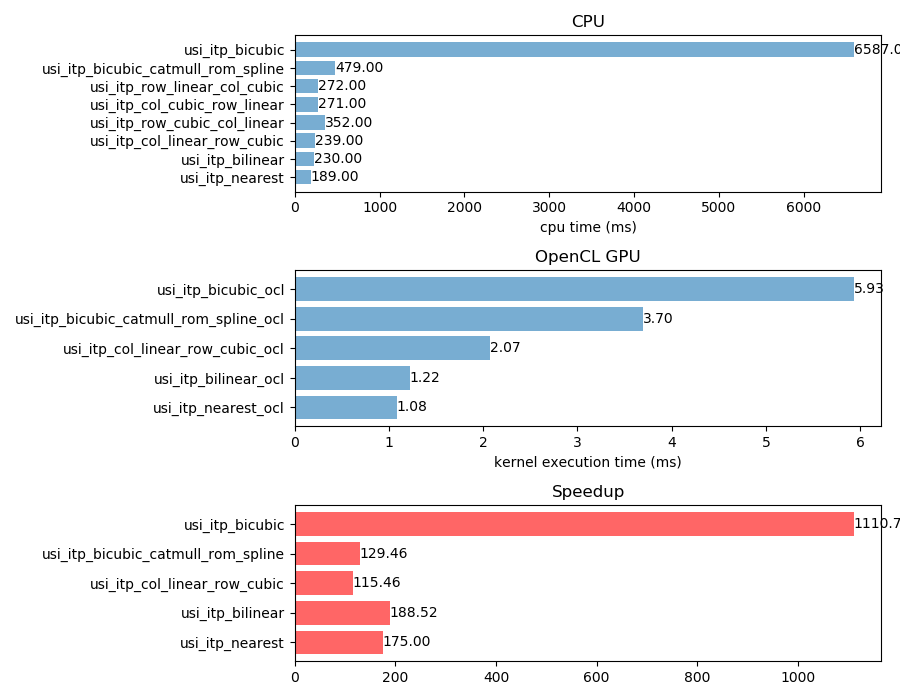
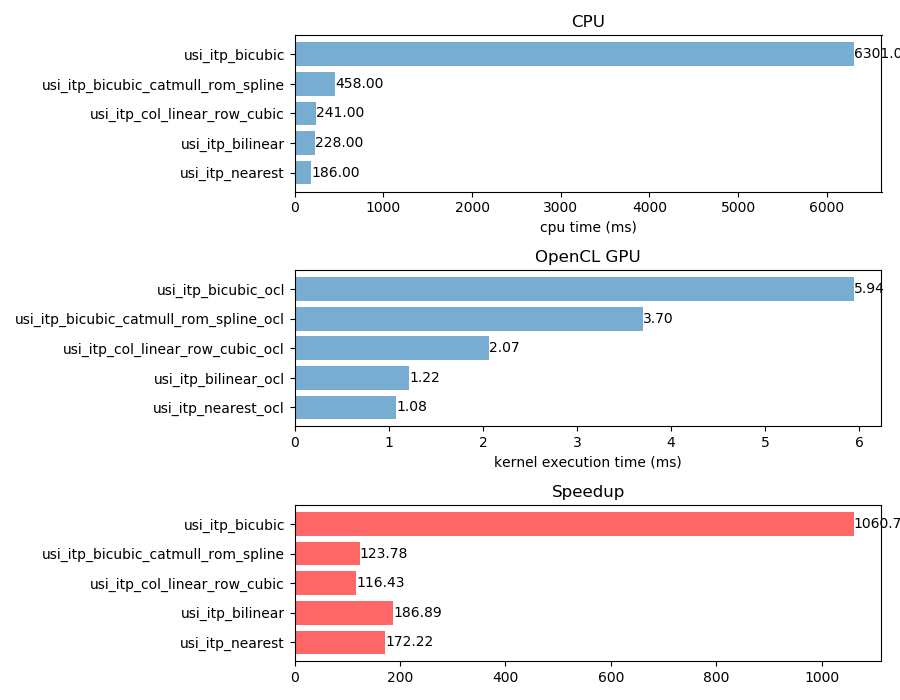
minor changes

diff --git a/us_img.c b/us_img.c
@@ -1028,7 +1028,7 @@ GrayImage *usi_itp_nearest_ocl(const USImage *usi, const OCLResrc *ocl_resrc)
 
     // Define an index space of work-items for execution.
 	// A work-group size is not required, but can be used.
-	size_t global_size[2] = {gi->height, gi->width}, local_size[1];
+	size_t global_size[2] = {gi->height, gi->width}, local_size[2] ;
     // global_id range should equal to the length of subsums
 	
     // number-of-groups: global_size / local_size
@@ -1145,7 +1145,7 @@ GrayImage *usi_itp_bilinear_ocl(const USImage *usi, const OCLResrc *ocl_resrc)
 
     // Define an index space of work-items for execution.
 	// A work-group size is not required, but can be used.
-	size_t global_size[2] = {gi->height, gi->width}, local_size[1];
+	size_t global_size[2] = {gi->height, gi->width}, local_size[2] ;
     // global_id range should equal to the length of subsums
 	
     // number-of-groups: global_size / local_size
@@ -1256,7 +1256,7 @@ GrayImage *usi_itp_bicubic_ocl(const USImage *usi, const OCLResrc *ocl_resrc)
 
     // Define an index space of work-items for execution.
 	// A work-group size is not required, but can be used.
-	size_t global_size[2] = {gi->height, gi->width}, local_size[1];
+	size_t global_size[2] = {gi->height, gi->width}, local_size[2] ;
     // global_id range should equal to the length of subsums
 	
     // number-of-groups: global_size / local_size
@@ -1367,7 +1367,7 @@ GrayImage *usi_itp_col_linear_row_cubic_ocl(const USImage *usi, const OCLResrc *
 
     // Define an index space of work-items for execution.
 	// A work-group size is not required, but can be used.
-	size_t global_size[2] = {gi->height, gi->width}, local_size[1];
+	size_t global_size[2] = {gi->height, gi->width}, local_size[2] ;
     // global_id range should equal to the length of subsums
 	
     // number-of-groups: global_size / local_size
@@ -1478,7 +1478,7 @@ GrayImage *usi_itp_bicubic_catmull_rom_spline_ocl(const USImage *usi, const OCLR
 
     // Define an index space of work-items for execution.
 	// A work-group size is not required, but can be used.
-	size_t global_size[2] = {gi->height, gi->width}, local_size[1];
+	size_t global_size[2] = {gi->height, gi->width}, local_size[2] ;
     // global_id range should equal to the length of subsums
 	
     // number-of-groups: global_size / local_size

diff --git a/main.c b/main.c
@@ -75,29 +75,29 @@ int main(int argc, char *argv[])
         goto ITP_FAILURE;
     }
 
-    itp_status = usi_itp_png(usi, "row_cubic_col_linear.png", usi_itp_row_cubic_col_linear);
-    if(itp_status < 0)
-    {
-        ret_val = EXIT_FAILURE;
-        fprintf(stderr, "Failed to do row-cubic-col-linear interpolation.\n ");
-        goto ITP_FAILURE;
-    }
+    // itp_status = usi_itp_png(usi, "row_cubic_col_linear.png", usi_itp_row_cubic_col_linear);
+    // if(itp_status < 0)
+    // {
+    //     ret_val = EXIT_FAILURE;
+    //     fprintf(stderr, "Failed to do row-cubic-col-linear interpolation.\n ");
+    //     goto ITP_FAILURE;
+    // }
 
-    itp_status = usi_itp_png(usi, "col_cubic_row_linear.png", usi_itp_col_cubic_row_linear);
-    if(itp_status < 0)
-    {
-        ret_val = EXIT_FAILURE;
-        fprintf(stderr, "Failed to do col-cubic-row-linear interpolation.\n ");
-        goto ITP_FAILURE;
-    }
+    // itp_status = usi_itp_png(usi, "col_cubic_row_linear.png", usi_itp_col_cubic_row_linear);
+    // if(itp_status < 0)
+    // {
+    //     ret_val = EXIT_FAILURE;
+    //     fprintf(stderr, "Failed to do col-cubic-row-linear interpolation.\n ");
+    //     goto ITP_FAILURE;
+    // }
 
-    itp_status = usi_itp_png(usi, "row_linear_col_cubic.png", usi_itp_row_linear_col_cubic);
-    if(itp_status < 0)
-    {
-        ret_val = EXIT_FAILURE;
-        fprintf(stderr, "Failed to do row-linear-col-cubic interpolation.\n ");
-        goto ITP_FAILURE;
-    }
+    // itp_status = usi_itp_png(usi, "row_linear_col_cubic.png", usi_itp_row_linear_col_cubic);
+    // if(itp_status < 0)
+    // {
+    //     ret_val = EXIT_FAILURE;
+    //     fprintf(stderr, "Failed to do row-linear-col-cubic interpolation.\n ");
+    //     goto ITP_FAILURE;
+    // }
 
     itp_status = usi_itp_png(usi, "bicubic_catmull_rom_spline.png", usi_itp_bicubic_catmull_rom_spline);
     if(itp_status < 0)

diff --git a/evaluate.py b/evaluate.py
@@ -16,7 +16,7 @@ def psnr(img1, img2):
     PIXEL_MAX = 255.0
     return 20 * math.log10(PIXEL_MAX / math.sqrt(mse))
 
-imgs = dict.fromkeys(['bicubic', 'bicubic_ocl', 'bicubic_catmull_rom_spline','col_linear_row_cubic_ocl', 'bilinear_ocl', 'nearest_ocl'], None)
+imgs = dict.fromkeys(['bicubic', 'bicubic_ocl', 'bicubic_catmull_rom_spline_ocl','col_linear_row_cubic_ocl', 'bilinear_ocl', 'nearest_ocl'], None)
 
 for k in imgs.keys():
     imgs[k] = mpimg.imread(k+'.png')
